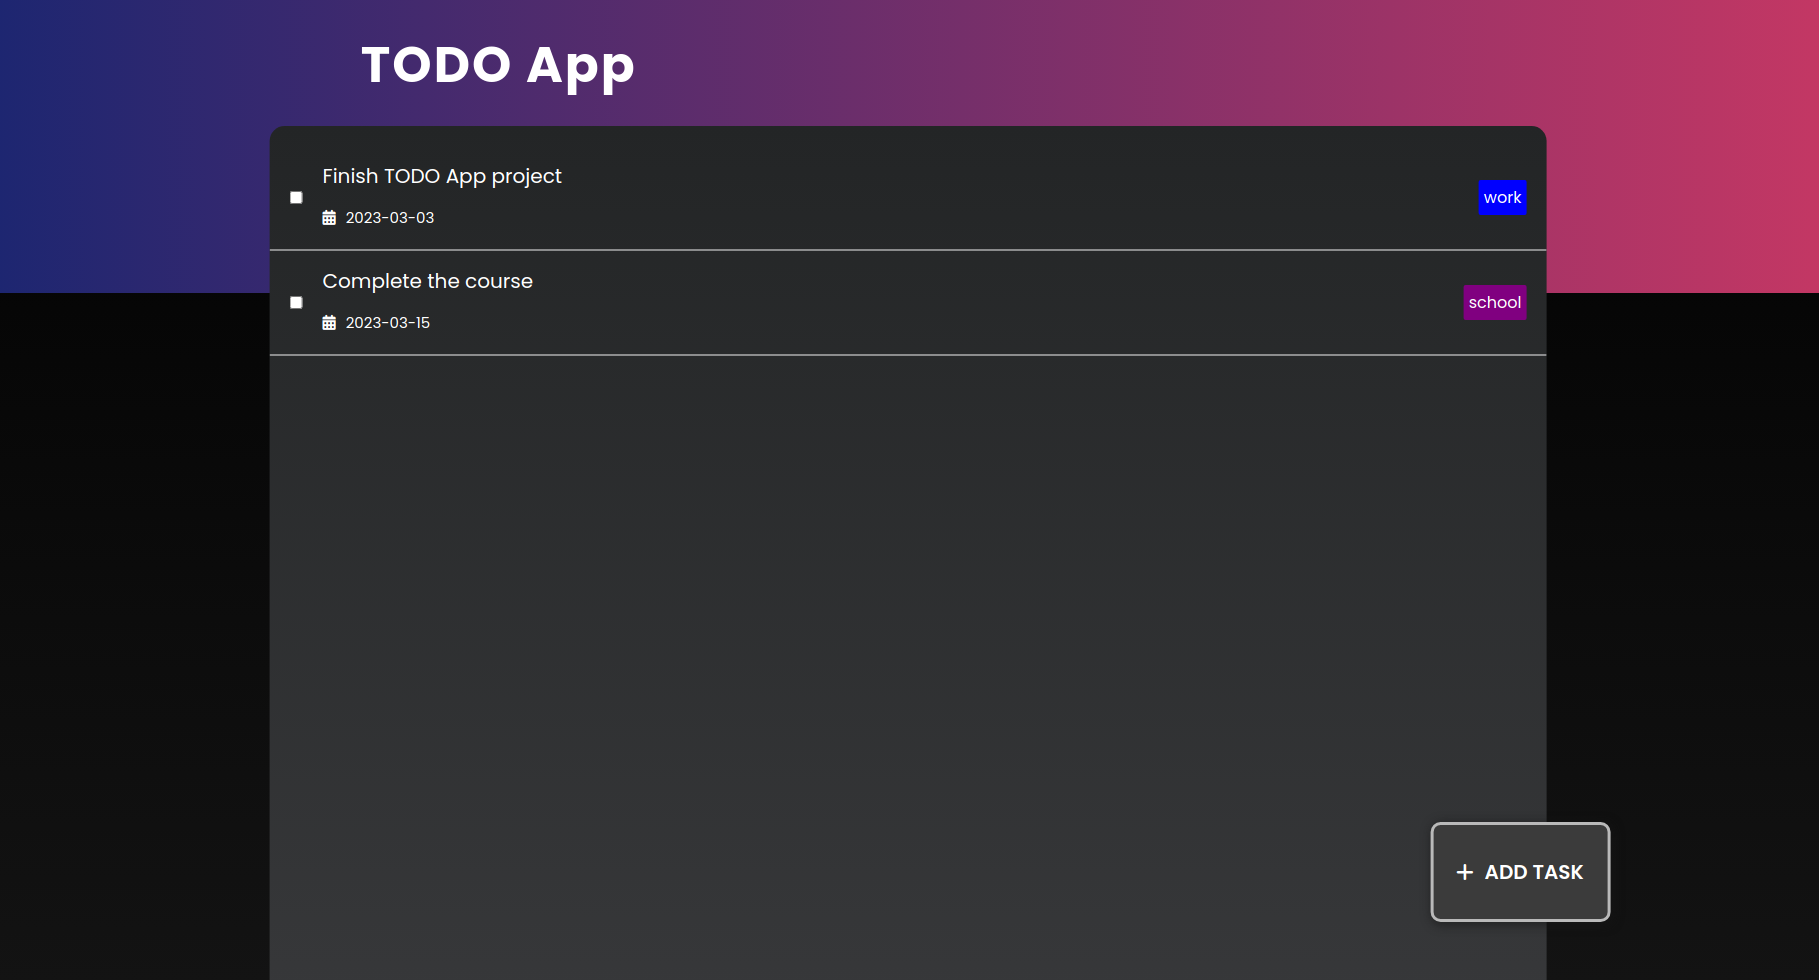
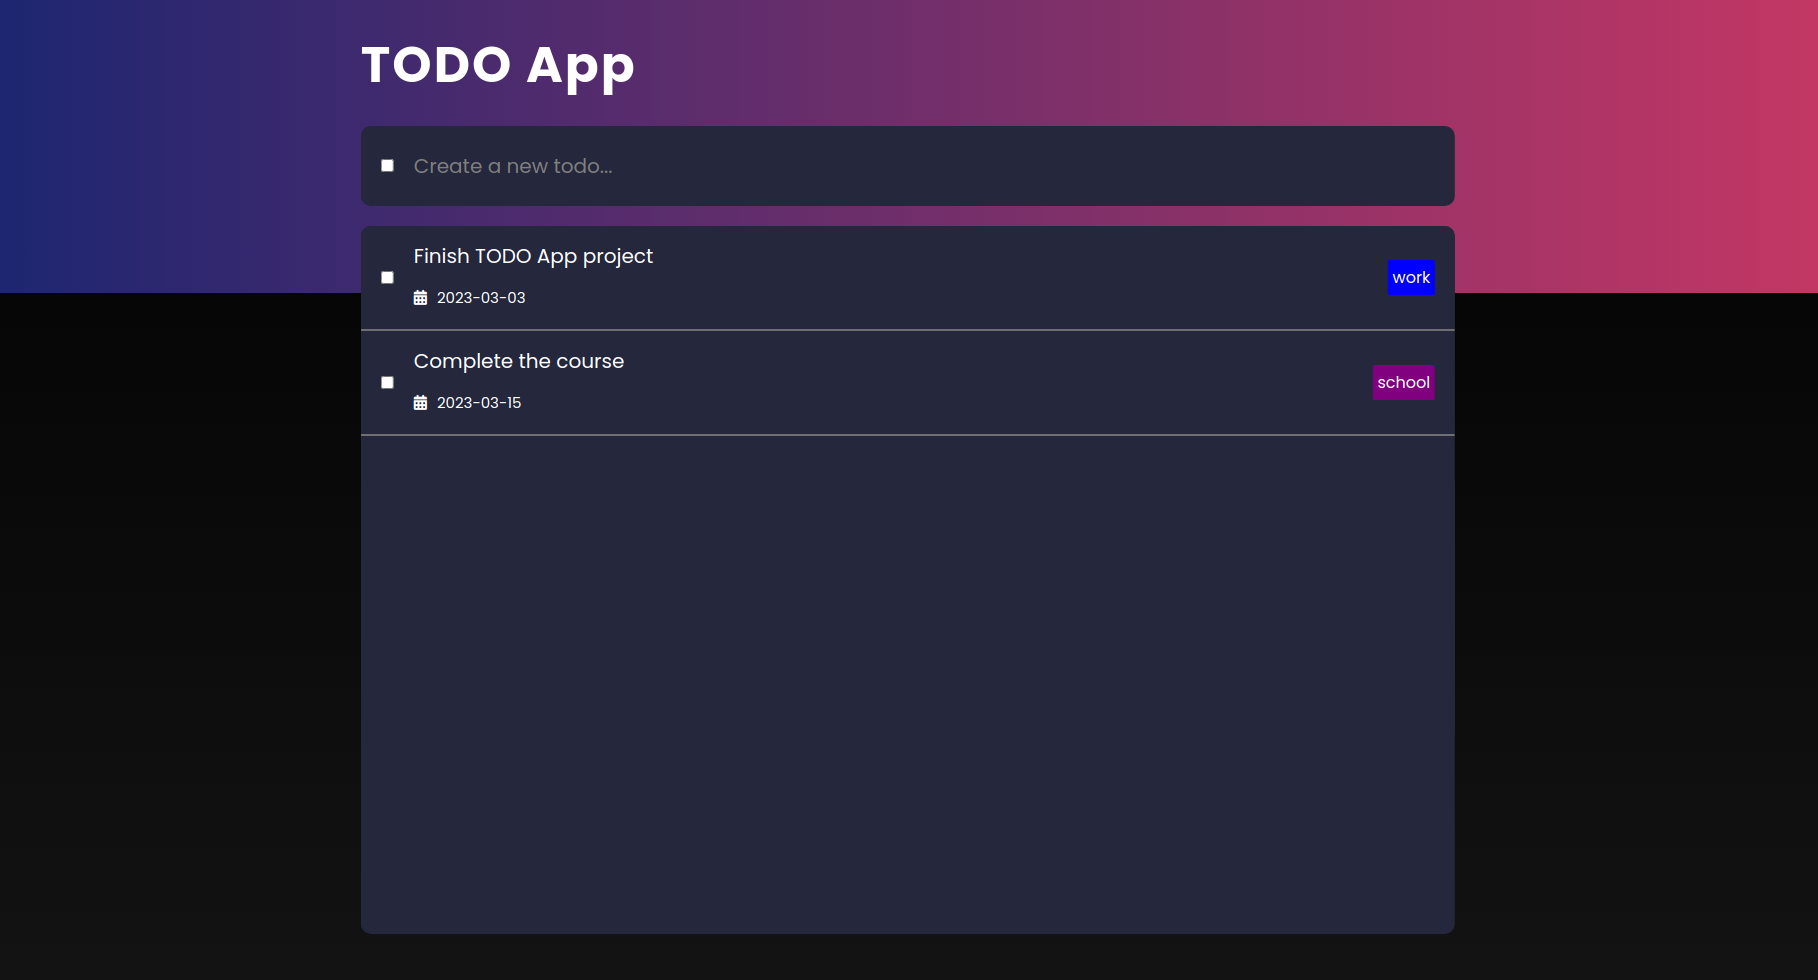
visual changes in homepage

Changed region(s): [[0.1232, 0.1224, 0.8933, 1.0], [0.308, 0.0612, 0.3388, 0.0918]]

diff --git a/assets/css/home.css b/assets/css/home.css
@@ -128,9 +128,12 @@ main {
   list-style: none;
 }
 
+.check-box-create {
+  margin: auto 2rem;
+}
+
 .check-box {
   margin: auto 2rem;
-  background-color: #2b3357;
 }
 
 .list-text {

diff --git a/README.md b/README.md
@@ -10,8 +10,8 @@ This is a simple TODO App developed with NodeJS, MongoDB.
 ### Screenshot
 
 ![](assets/images/1.png)
-![](assets/images/3.png)
 ![](assets/images/2.png)
+![](assets/images/3.png)
 
 ### Built with
 
